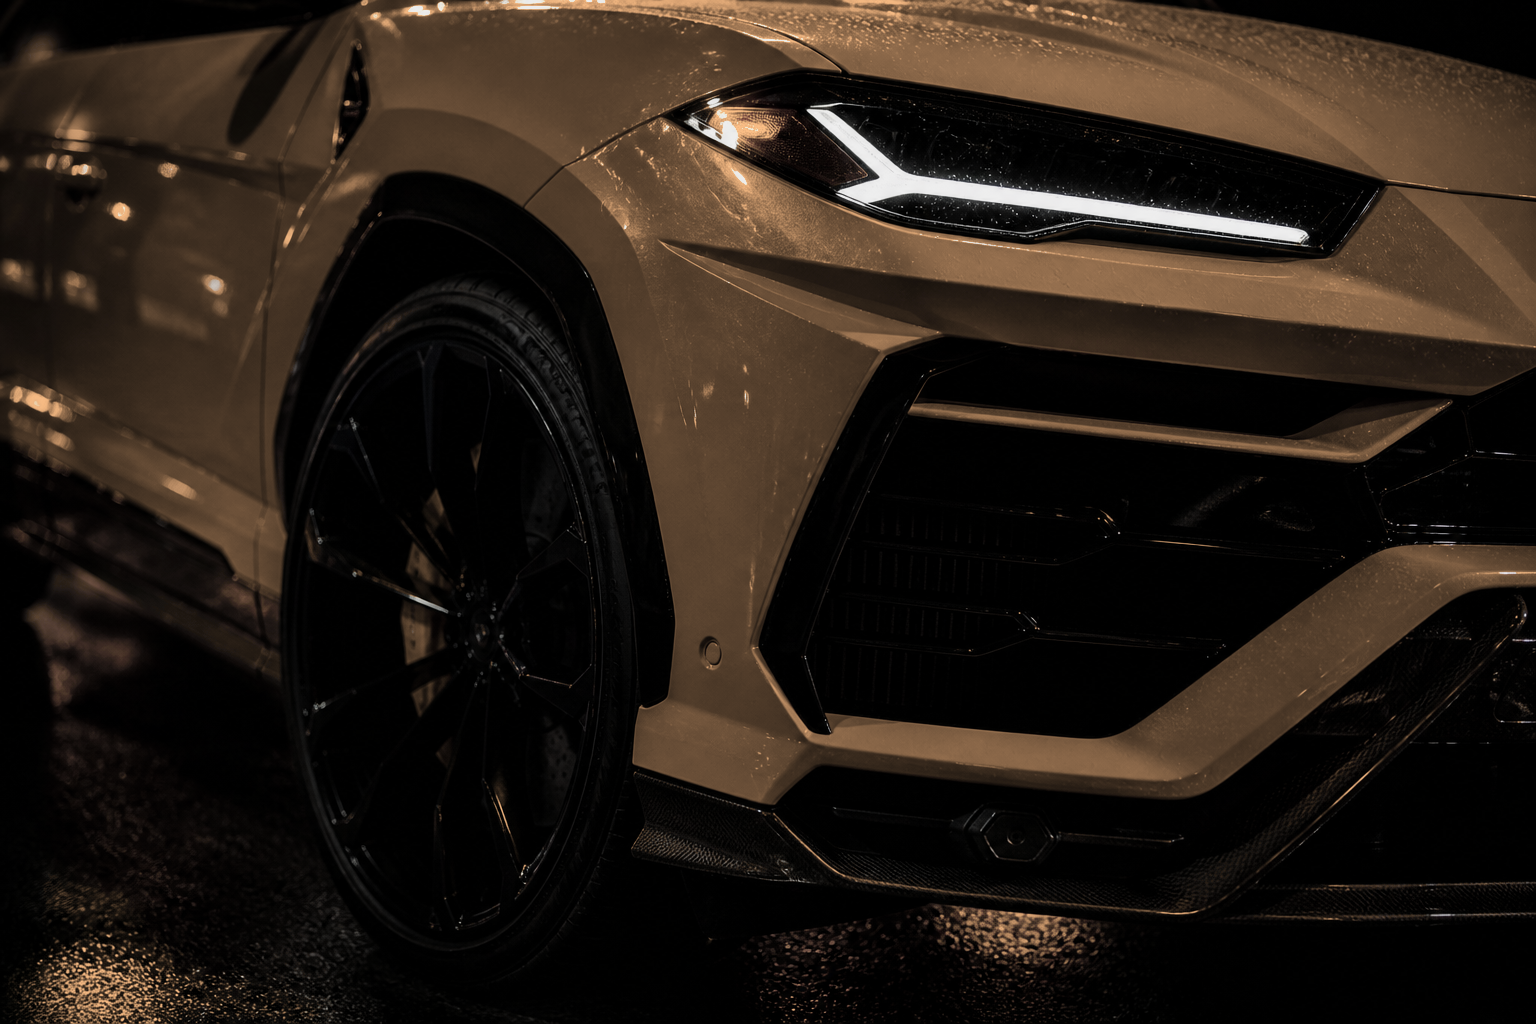
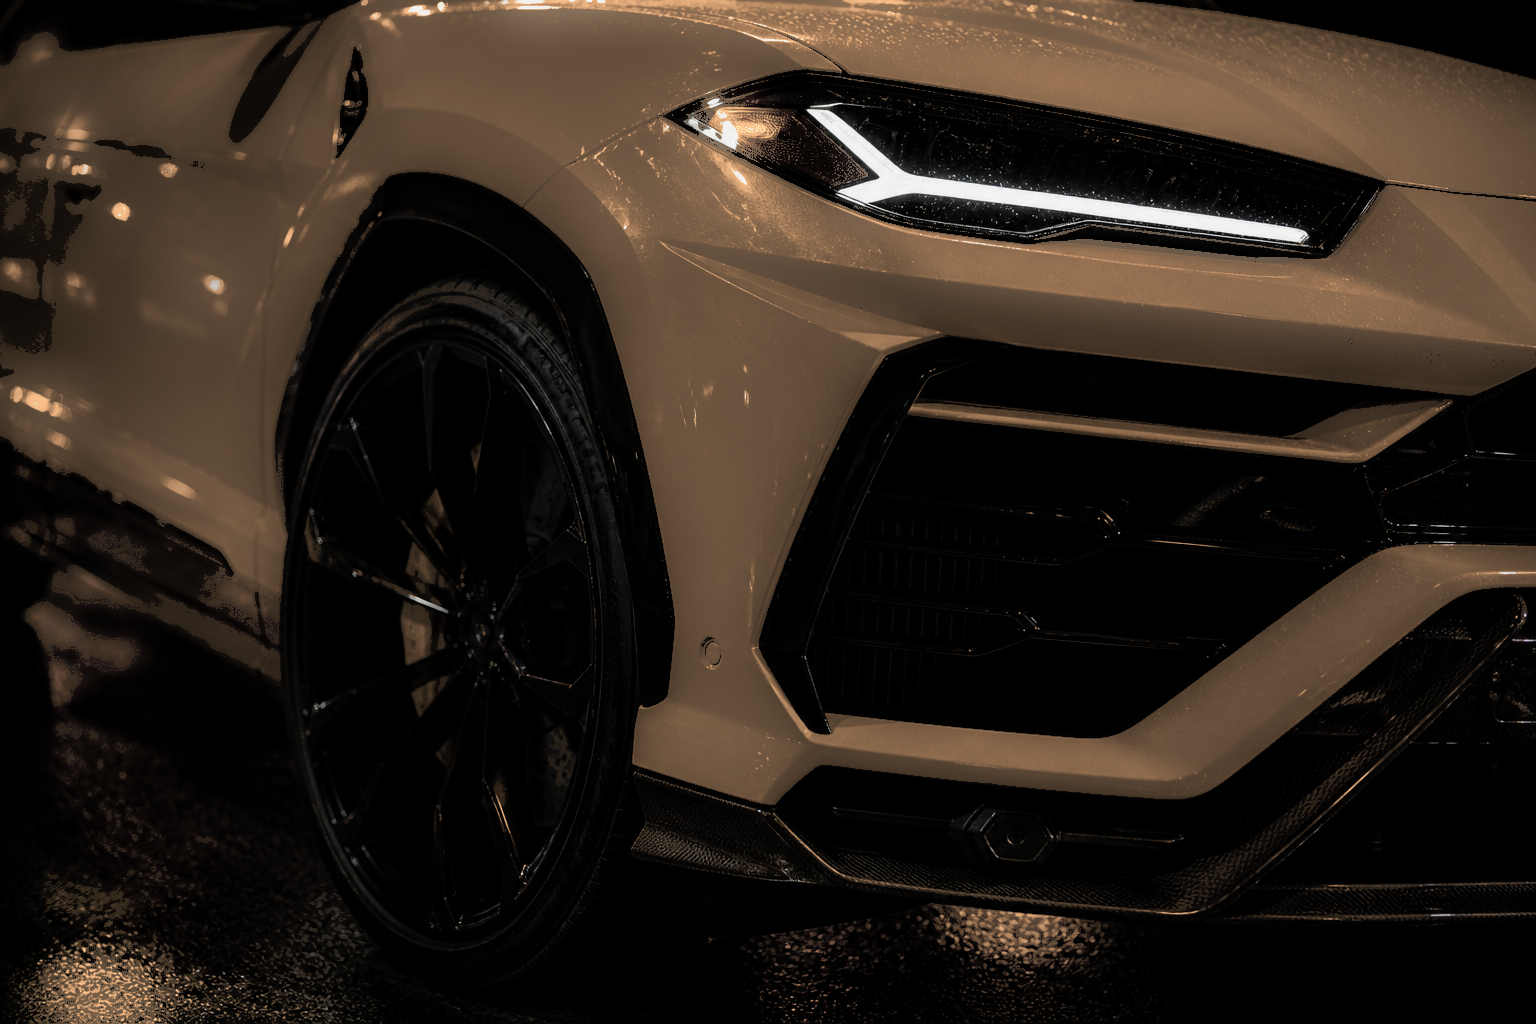
Refine the story block: one-line title, left photo, and more/less read.
Keep the detail shot champagne with softer body shadows and start collapsed on every visit.

diff --git a/src/components/HomeStory.tsx b/src/components/HomeStory.tsx
@@ -1,6 +1,7 @@
+"use client";
+
 import Link from "next/link";
-import type { ReactNode } from "react";
-import { Reveal } from "@/components/Reveal";
+import { useState, type ReactNode } from "react";
 
 function GoldTitle({ children, as: Tag = "h3" }: { children: ReactNode; as?: "h2" | "h3" }) {
   return (
@@ -18,7 +19,42 @@ function Em({ children }: { children: ReactNode }) {
   return <strong className="font-semibold text-yellow">{children}</strong>;
 }
 
-function StoryBody() {
+function MoreBtn({
+  expanded,
+  onToggle,
+}: {
+  expanded: boolean;
+  onToggle: () => void;
+}) {
+  return (
+    <button
+      type="button"
+      onClick={onToggle}
+      className="ml-2 inline-flex translate-y-[-1px] items-center whitespace-nowrap border border-yellow/50 bg-yellow/10 px-2.5 py-0.5 font-display text-[0.7rem] uppercase tracking-[0.16em] text-yellow transition hover:bg-yellow hover:text-black"
+      aria-expanded={expanded}
+    >
+      {expanded ? "Minder lezen" : "Meer lezen"}
+    </button>
+  );
+}
+
+function StoryPhoto() {
+  return (
+    <img
+      src="/images/urus-detail.png?v=20260908b"
+      alt="Detail van de Urus"
+      className="story-photo"
+    />
+  );
+}
+
+function StoryPreview({
+  expanded,
+  onToggle,
+}: {
+  expanded: boolean;
+  onToggle: () => void;
+}) {
   return (
     <div className="story-prose space-y-4">
       <P>
@@ -42,10 +78,16 @@ function StoryBody() {
       <P>
         Ik weet natuurlijk perfect wat zo&apos;n wagen kost. Zelf ongeveer €400.000 op tafel leggen
         is voor mij simpelweg niet realistisch. Dus kon ik accepteren dat het altijd een droom zou
-        blijven,{" "}
-        <Em>of één keer in mijn leven iets compleet anders proberen.</Em>
+        blijven, <Em>of één keer in mijn leven iets compleet anders proberen.</Em>
+        {!expanded ? <MoreBtn expanded={false} onToggle={onToggle} /> : null}
       </P>
+    </div>
+  );
+}
 
+function StoryRest({ onCollapse }: { onCollapse: () => void }) {
+  return (
+    <div className="story-prose mt-4 space-y-4">
       <GoldTitle>NIET ÉÉN PERSOON €400.000 VRAGEN, MAAR 200.000 MENSEN €2.</GoldTitle>
 
       <P>
@@ -94,8 +136,11 @@ function StoryBody() {
 
       <P>
         Als de actie slaagt, wil ik de droom ook delen. Zoals u verder op deze website kunt lezen,
-        worden <Em>vier weekends met de Lamborghini Urus weggegeven. Twee weekends worden door het
-        lot bepaald</Em>
+        worden{" "}
+        <Em>
+          vier weekends met de Lamborghini Urus weggegeven. Twee weekends worden door het lot
+          bepaald
+        </Em>
         , waardoor ook iemand die gewoon één keer €2 stort kans maakt om zelf de sleutels in handen
         te krijgen.
       </P>
@@ -129,11 +174,11 @@ function StoryBody() {
       <P>
         Misschien lachen mensen ermee en zeggen ze:{" "}
         <em className="text-white/70">“Die is compleet gek.”</em> Prima. Maar misschien denken ze
-        daarna ook:{" "}
-        <Em>“Weet je wat? Voor €2 wil ik wel eens zien of het hem lukt.”</Em> En precies dát kan
-        dit verhaal groot maken. Eerst tien mensen, dan honderd, duizend, tienduizend... Misschien
-        begint het te leven op sociale media, wordt het gedeeld door iemand met een groot bereik en{" "}
-        <Em>haalt dit knotsgekke verhaal op een dag zelfs de media.</Em> Dan kunt u zeggen:{" "}
+        daarna ook: <Em>“Weet je wat? Voor €2 wil ik wel eens zien of het hem lukt.”</Em> En precies
+        dát kan dit verhaal groot maken. Eerst tien mensen, dan honderd, duizend, tienduizend...
+        Misschien begint het te leven op sociale media, wordt het gedeeld door iemand met een groot
+        bereik en <Em>haalt dit knotsgekke verhaal op een dag zelfs de media.</Em> Dan kunt u
+        zeggen:{" "}
         <em className="text-white/70">
           “Ik was erbij. Ik heb meegedaan. Ik heb geholpen om dit verhaal aan het rollen te krijgen.”
         </em>{" "}
@@ -178,12 +223,28 @@ function StoryBody() {
 
       <P>
         <Em>Maar daarvoor moet iemand beginnen. Waarom niet u?</Em>
+        <MoreBtn expanded onToggle={onCollapse} />
       </P>
     </div>
   );
 }
 
+function StoryCta() {
+  return (
+    <div className="clear-both pt-8">
+      <Link href="/meedoen" className="btn-yellow">
+        Ik doe mee voor €2
+      </Link>
+      <p className="mt-4 max-w-2xl text-sm text-white/70 md:text-base">
+        <Em>Doe mee. Deel uw persoonlijke link. Verzamel punten. Laat het verhaal groeien.</Em>
+      </p>
+    </div>
+  );
+}
+
 export function HomeStory() {
+  const [expanded, setExpanded] = useState(false);
+
   return (
     <section id="verhaal" className="relative overflow-hidden bg-black pt-16 pb-10 md:pt-24 md:pb-14">
       <img
@@ -193,60 +254,17 @@ export function HomeStory() {
         className="pointer-events-none absolute inset-0 h-full w-full object-cover opacity-[0.05]"
       />
       <div className="relative mx-auto max-w-7xl px-5">
-        <Reveal>
-          <p className="mb-3 font-display text-[0.75rem] tracking-[0.28em] text-yellow">Verhaal</p>
-          <h2 className="font-display text-3xl leading-[1.15] tracking-tight text-yellow sm:text-4xl md:text-5xl lg:text-6xl">
-            MIJN DROOM.
-            <br />
-            UW €2.
-            <br />
-            ONS VERHAAL.
-          </h2>
-        </Reveal>
+        <p className="mb-3 font-display text-[0.75rem] tracking-[0.28em] text-yellow">Verhaal</p>
+        <h2 className="font-display text-[clamp(1.05rem,2.6vw+0.35rem,3.5rem)] leading-[1.12] tracking-tight text-yellow md:whitespace-nowrap">
+          MIJN DROOM. UW €2. ONS VERHAAL.
+        </h2>
 
-        {/* Mobile: photo + scrollable story */}
-        <div className="mt-8 md:hidden">
-          <div className="aspect-[16/10] overflow-hidden border border-white/10">
-            <img
-              src="/images/urus-detail.png?v=20260908a"
-              alt="Detail van de Urus"
-              className="h-full w-full object-cover"
-            />
-          </div>
-          <div className="story-scroll mt-5 max-h-[min(26rem,58vh)] overflow-y-auto overscroll-contain rounded-sm border border-white/10 bg-black/40 px-3 py-4 pr-2">
-            <StoryBody />
-          </div>
-          <div className="mt-5 space-y-3">
-            <Link href="/meedoen" className="btn-yellow w-full text-center">
-              Ik doe mee voor €2
-            </Link>
-            <p className="text-sm text-white/70">
-              <Em>Doe mee. Deel uw persoonlijke link. Verzamel punten. Laat het verhaal groeien.</Em>
-            </p>
-          </div>
-        </div>
-
-        {/* Desktop: story wraps around the photo */}
-        <Reveal className="mt-10 hidden md:block">
-          <article className="story-wrap">
-            <img
-              src="/images/urus-detail.png?v=20260908a"
-              alt="Detail van de Urus"
-              className="story-wrap-photo"
-            />
-            <StoryBody />
-            <div className="clear-both pt-8">
-              <Link href="/meedoen" className="btn-yellow">
-                Ik doe mee voor €2
-              </Link>
-              <p className="mt-4 max-w-2xl text-sm text-white/70 md:text-base">
-                <Em>
-                  Doe mee. Deel uw persoonlijke link. Verzamel punten. Laat het verhaal groeien.
-                </Em>
-              </p>
-            </div>
-          </article>
-        </Reveal>
+        <article className="story-layout mt-8 md:mt-10">
+          <StoryPhoto />
+          <StoryPreview expanded={expanded} onToggle={() => setExpanded(true)} />
+          {expanded ? <StoryRest onCollapse={() => setExpanded(false)} /> : null}
+          <StoryCta />
+        </article>
       </div>
     </section>
   );

diff --git a/src/app/globals.css b/src/app/globals.css
@@ -591,19 +591,33 @@ details[open] > summary .accordion-mark::after {
   content: "−";
 }
 
-.story-wrap-photo {
-  float: right;
-  width: min(42%, 28rem);
-  margin: 0.15rem 0 1.25rem 1.75rem;
+.story-layout {
+  display: flow-root;
+}
+
+.story-photo {
+  display: block;
+  width: 100%;
   aspect-ratio: 16 / 11;
   object-fit: cover;
   border: 1px solid rgba(255, 255, 255, 0.1);
+  margin-bottom: 1.25rem;
+}
+
+@media (min-width: 768px) {
+  .story-photo {
+    float: left;
+    width: min(44%, 30rem);
+    margin: 0.15rem 1.75rem 1.1rem 0;
+    aspect-ratio: 16 / 11;
+  }
 }
 
 .story-prose h2,
 .story-prose h3 {
   margin-top: 1.35rem;
   margin-bottom: 0.35rem;
+  clear: both;
 }
 
 .story-scroll {
